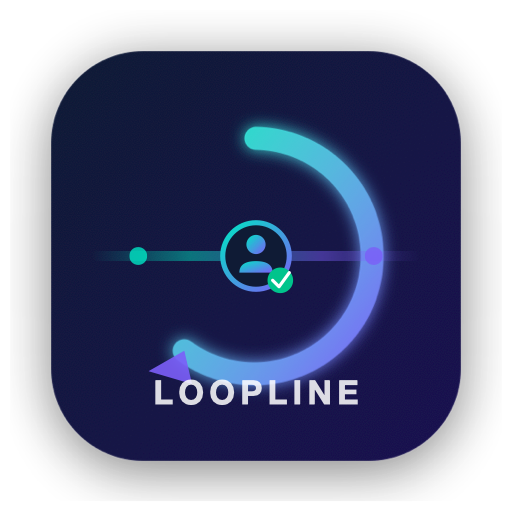
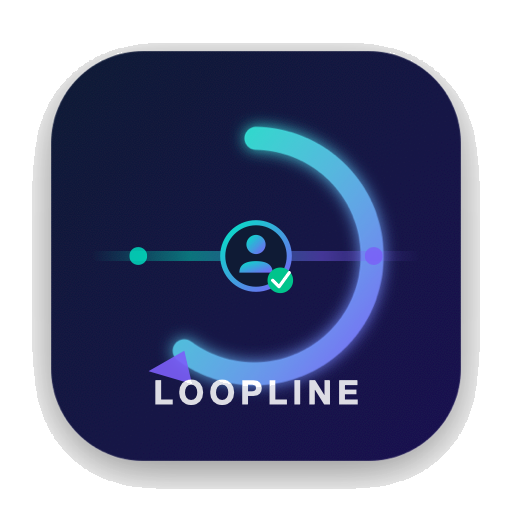
Use human-readable tool names in review UI; fix raw body in email previews
- Replace internal tool IDs (gmail_get_message, drive_list_files, etc.)
  with user-facing labels (Read Email, Search Drive Files, etc.) in review
  approval prompts
- Fix gmail_get_message and gmail_get_thread to use the raw message body
  for the HTML preview instead of the already-filtered version
- Update app icons (32/64/512px)

diff --git a/src/loopline/drive_mcp_server.py b/src/loopline/drive_mcp_server.py
@@ -63,7 +63,7 @@ class DriveGuardServer:
             files = await self._fetch(self._drive.list_files, query, max_results)
             filtered = self._filter.filter_file_list(files)
             return await self._review(
-                tool_name="drive_list_files",
+                tool_name="Search Drive Files",
                 summary=f"List files: query={query!r} (max {max_results})",
                 sender=f"{len(files)} result(s)",
                 raw_data=files,
@@ -83,7 +83,7 @@ class DriveGuardServer:
             )
             filtered = self._filter.filter_file_metadata(drive_file)
             return await self._review(
-                tool_name="drive_get_file_metadata",
+                tool_name="Get Drive File Info",
                 summary=f"Get metadata: {drive_file.short_summary()}",
                 sender=", ".join(drive_file.owners) or "(unknown owner)",
                 raw_data=drive_file,
@@ -104,7 +104,7 @@ class DriveGuardServer:
             )
             filtered = self._filter.filter_file_content(content)
             return await self._review(
-                tool_name="drive_get_file_content",
+                tool_name="Read Drive File",
                 summary=f"Get content: {content.file.short_summary()}",
                 sender=", ".join(content.file.owners) or "(unknown owner)",
                 raw_data=content,
@@ -124,7 +124,7 @@ class DriveGuardServer:
             )
             filtered = self._filter.filter_folder_listing(files)
             return await self._review(
-                tool_name="drive_list_folder",
+                tool_name="List Drive Folder",
                 summary=f"List folder: {folder_id} (max {max_results})",
                 sender=f"{len(files)} child item(s)",
                 raw_data=files,

diff --git a/src/loopline/mcp_server.py b/src/loopline/mcp_server.py
@@ -102,11 +102,11 @@ class GmailGuardServer:
                 "recipients": filtered.recipients,
                 "subject": filtered.subject,
                 "date": filtered.date,
-                "html_body": filtered.body_html or filtered.body_text,
+                "html_body": message.body_html or message.body_text,
                 "attachment_count": len(message.attachments),
             }
             return await self._review(
-                tool_name="gmail_get_message",
+                tool_name="Read Email",
                 summary=f"Read email: {message.short_summary()}",
                 sender=message.sender,
                 raw_data=message,
@@ -132,7 +132,7 @@ class GmailGuardServer:
                     "recipients": m.recipients,
                     "subject": m.subject,
                     "date": m.date,
-                    "html_body": m.body_html or m.body_text,
+                    "html_body": raw.body_html or raw.body_text,
                     "attachment_count": len(raw.attachments),
                 }
                 for m, raw in zip(filtered.messages, thread.messages)
@@ -144,7 +144,7 @@ class GmailGuardServer:
                 "messages": message_previews,
             }
             return await self._review(
-                tool_name="gmail_get_thread",
+                tool_name="Read Email Thread",
                 summary=f"Read thread: {thread.short_summary()}",
                 sender=thread.subject,
                 raw_data=thread,

diff --git a/src/loopline/slack_mcp_server.py b/src/loopline/slack_mcp_server.py
@@ -66,7 +66,7 @@ class SlackGuardServer:
             )
             filtered = self._filter.filter_channels(channels)
             return await self._review(
-                tool_name="slack_list_channels",
+                tool_name="List Slack Channels",
                 summary=f"List channels (max {max_results})",
                 sender=f"{len(channels)} channel(s)",
                 raw_data=channels,
@@ -88,7 +88,7 @@ class SlackGuardServer:
             )
             filtered = self._filter.filter_messages(messages)
             return await self._review(
-                tool_name="slack_get_channel_history",
+                tool_name="Read Slack Channel",
                 summary=f"Channel history: {channel_id} (limit {limit})",
                 sender=f"{len(messages)} message(s)",
                 raw_data=messages,
@@ -110,7 +110,7 @@ class SlackGuardServer:
             )
             filtered = self._filter.filter_thread(messages)
             return await self._review(
-                tool_name="slack_get_thread_replies",
+                tool_name="Read Slack Thread",
                 summary=f"Thread replies: {channel_id}/{thread_ts}",
                 sender=f"{len(messages)} message(s)",
                 raw_data=messages,
@@ -130,7 +130,7 @@ class SlackGuardServer:
             )
             filtered = self._filter.filter_messages(messages)
             return await self._review(
-                tool_name="slack_search_messages",
+                tool_name="Search Slack Messages",
                 summary=f"Search messages: query={query!r} (count {count})",
                 sender=f"{len(messages)} match(es)",
                 raw_data=messages,